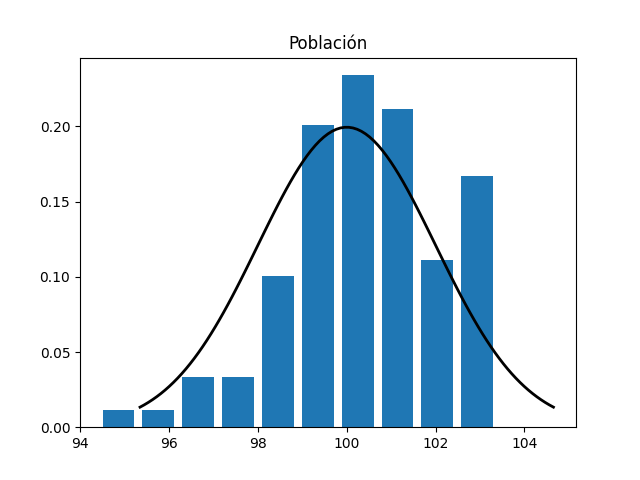
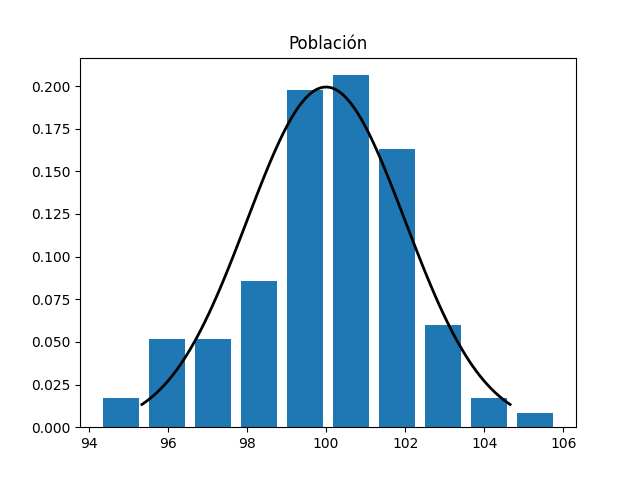
changing coupling parameter to see changes in plots

diff --git a/kuramoto_forced/mixing_populations_implementation.py b/kuramoto_forced/mixing_populations_implementation.py
@@ -6,7 +6,7 @@ from modules.kuramoto import Kuramoto
 from modules.plotting import plot_activity, plot_phase_coherence
 
 # Parámetros del modelo
-coupl = 2.5 # Coupling
+coupl = 3.5 # Coupling
 dt = 0.1 #
 T=10 # time interval (0, T)
 ## proportions of honest and corrupted

diff --git a/kuramoto_forced/forcing_population_implementation.py b/kuramoto_forced/forcing_population_implementation.py
@@ -6,7 +6,7 @@ from modules.kuramoto import Kuramoto
 from modules.plotting import plot_activity, plot_phase_coherence
 
 # Parámetros del modelo
-coupl = 2.5 # Coupling
+coupl = 3.5 # Coupling
 dt = 0.1 #
 T=10 # time interval (0, T)
 
